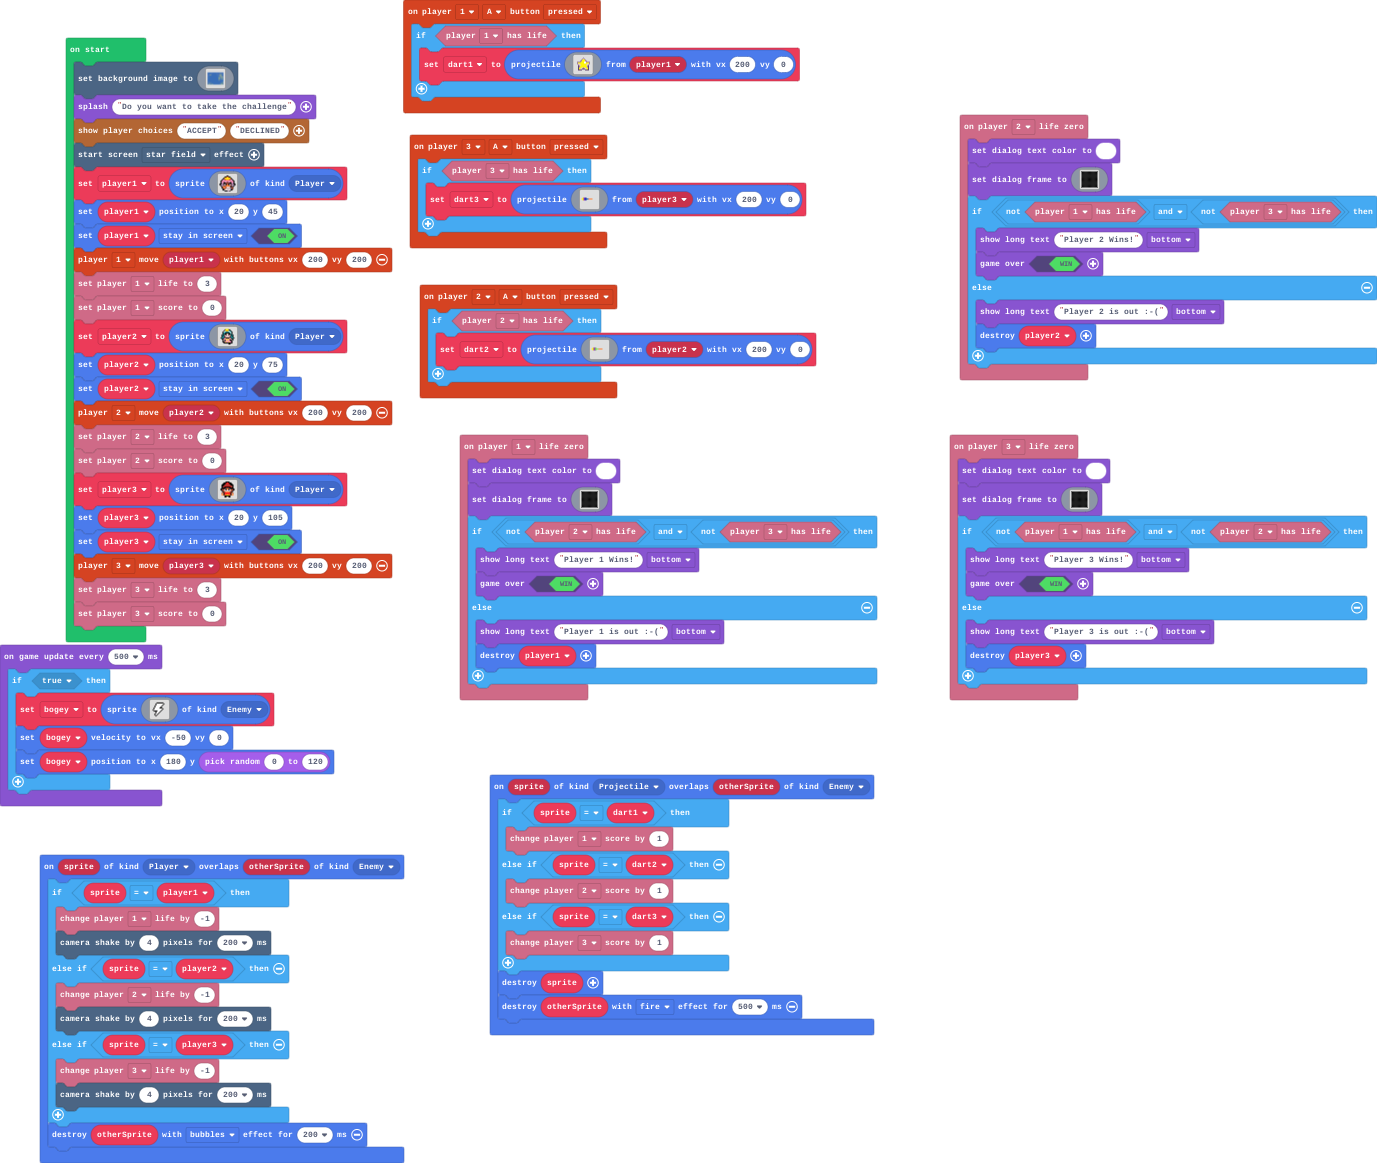
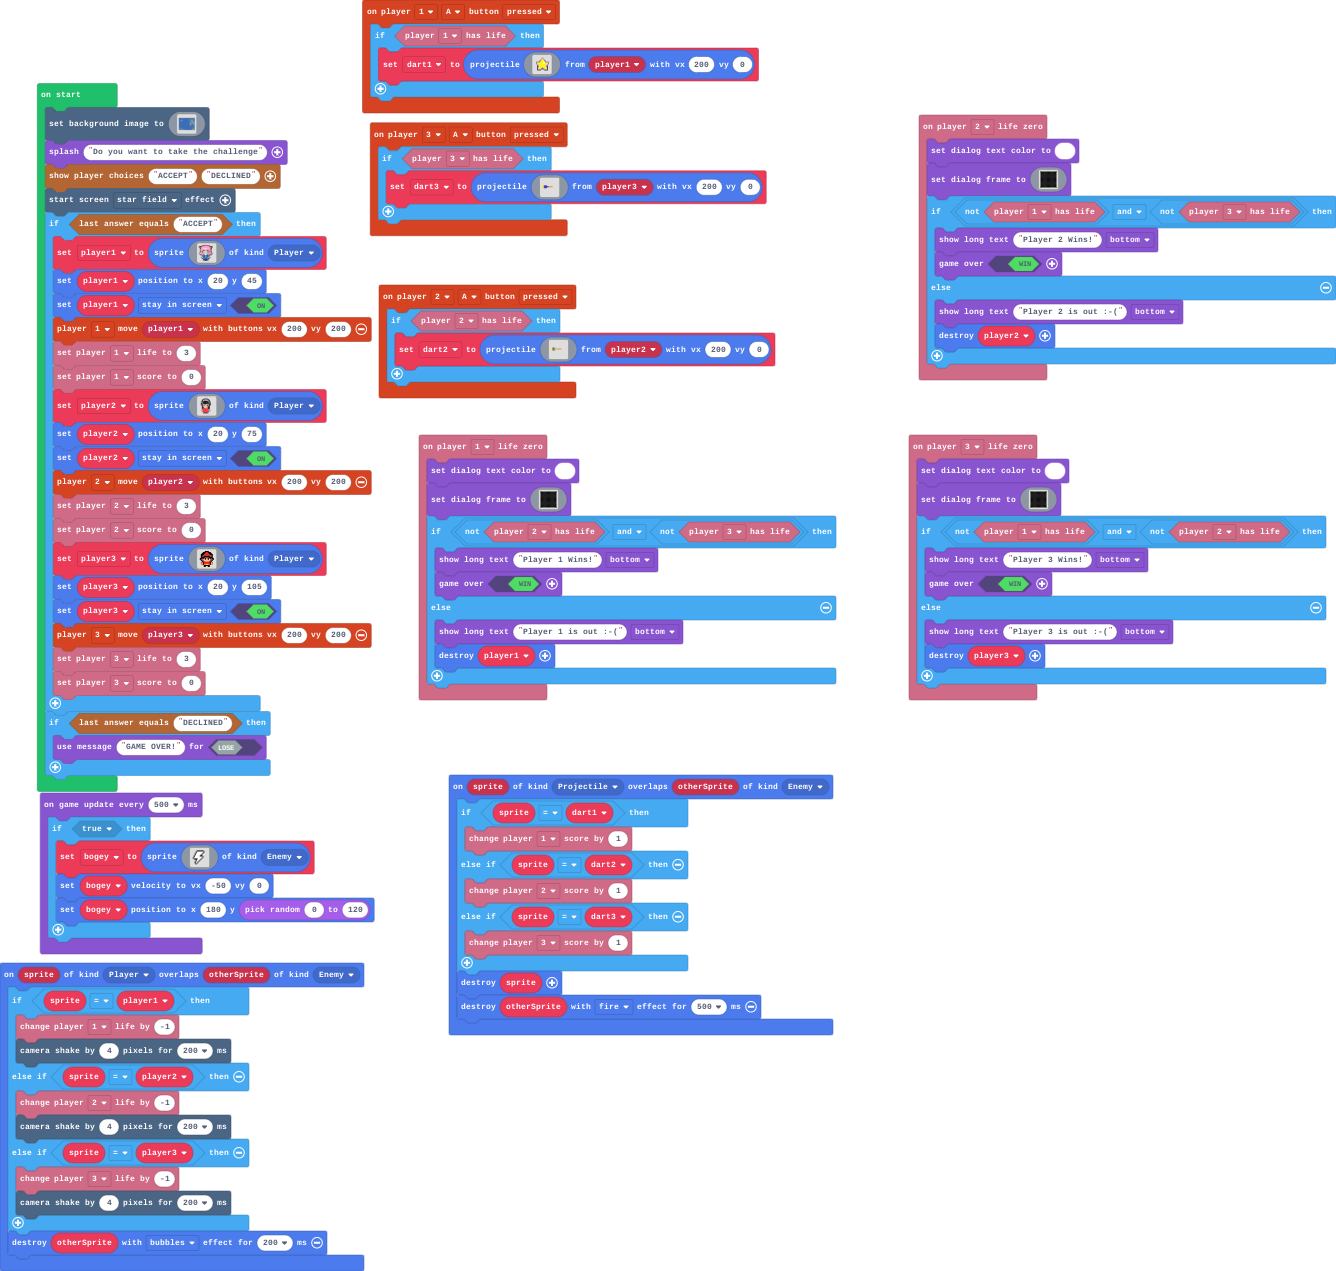
I edited two sprites

diff --git a/main.ts b/main.ts
@@ -301,75 +301,110 @@ scene.setBackgroundImage(img`
 game.splash("Do you want to take the challenge")
 story.showPlayerChoices("ACCEPT", "DECLINED")
 effects.starField.startScreenEffect()
-player1 = sprites.create(img`
-    . . . . . . . f f . . . . . . . 
-    . . . . . f f 4 4 f f . . . . . 
-    . . . . f 5 4 5 5 4 5 f . . . . 
-    . . . f e 4 5 5 5 5 4 e f . . . 
-    . . f b 3 e 4 4 4 4 e 3 b f . . 
-    . f e 3 3 3 3 3 3 3 3 3 3 e f . 
-    . f 3 3 e b 3 e e 3 b e 3 3 f . 
-    . f b 3 f f e e e e f f 3 b f . 
-    f f b b f b f e e f b f b b f f 
-    f b b b e 1 f 4 4 f 1 e b b b f 
-    . f b b e e 4 4 4 4 4 f b b f . 
-    . . f 4 4 4 e d d d b f e f . . 
-    . . f e 4 4 e d d d d c 4 e . . 
-    . . . f e e d d b d b b f e . . 
-    . . . f f 1 d 1 d 1 1 f f . . . 
-    . . . . . f f f b b f . . . . . 
-    `, SpriteKind.Player)
-player1.setPosition(20, 45)
-player1.setFlag(SpriteFlag.StayInScreen, true)
-controller.player1.moveSprite(player1, 200, 200)
-info.player1.setLife(3)
-info.player1.setScore(0)
-player2 = sprites.create(img`
-    . . . . . . 5 . 5 . . . . . . . 
-    . . . . . f 5 5 5 f f . . . . . 
-    . . . . f 1 5 2 5 1 6 f . . . . 
-    . . . f 1 6 6 6 6 6 1 6 f . . . 
-    . . . f 6 6 f f f f 6 1 f . . . 
-    . . . f 6 f f d d f f 6 f . . . 
-    . . f 6 f d f d d f d f 6 f . . 
-    . . f 6 f d 3 d d 3 d f 6 f . . 
-    . . f 6 6 f d d d d f 6 6 f . . 
-    . f 6 6 f 3 f f f f 3 f 6 6 f . 
-    . . f f 3 3 5 3 3 5 3 d f f . . 
-    . . . f d f 3 5 5 3 f f d f . . 
-    . . . f d f 3 3 3 3 3 f f . . . 
-    . . . f f 3 5 3 3 5 3 3 f . . . 
-    . . . . f f f f f f f f f . . . 
-    . . . . . . . . . f f . . . . . 
-    `, SpriteKind.Player)
-player2.setPosition(20, 75)
-player2.setFlag(SpriteFlag.StayInScreen, true)
-controller.player2.moveSprite(player2, 200, 200)
-info.player2.setLife(3)
-info.player2.setScore(0)
-player3 = sprites.create(img`
-    . . . . . . f f f f . . . . . . 
-    . . . . f f f 2 2 f f f . . . . 
-    . . . f f f 2 2 2 2 f f f . . . 
-    . . f f f e e e e e e f f f . . 
-    . . f f e 2 2 2 2 2 2 e e f . . 
-    . . f e 2 f f f f f f 2 e f . . 
-    . . f f f f e e e e f f f f . . 
-    . f f e f b f 4 4 f b f e f f . 
-    . f e e 4 1 f d d f 1 4 e e f . 
-    . . f e e d d d d d d e e f . . 
-    . . . f e e 4 4 4 4 e e f . . . 
-    . . e 4 f 2 2 2 2 2 2 f 4 e . . 
-    . . 4 d f 2 2 2 2 2 2 f d 4 . . 
-    . . 4 4 f 4 4 5 5 4 4 f 4 4 . . 
-    . . . . . f f f f f f . . . . . 
-    . . . . . f f . . f f . . . . . 
-    `, SpriteKind.Player)
-player3.setPosition(20, 105)
-player3.setFlag(SpriteFlag.StayInScreen, true)
-controller.player3.moveSprite(player3, 200, 200)
-info.player3.setLife(3)
-info.player3.setScore(0)
+if (story.checkLastAnswer("ACCEPT")) {
+    player1 = sprites.create(img`
+        ......fffffffffffff..........
+        .....f3333333333333f.........
+        ffffff3333333333333ffffff....
+        feee53333333333333335eeef....
+        feeee333333333333333eeeef....
+        fee5313333333333333135eef....
+        .fee33133131131333133eef.....
+        .fe5333311311313133335ef.....
+        ..f3333333333333333333f......
+        ..f3333333333333333333f......
+        ..f33333f3333333f33333f......
+        ..f3333fff3d3d3fff3333f......
+        .ff333f161ddddd161f3333f.....
+        .f333ff166ddddd661ff333f.....
+        .f3333f167ddddd761f3333f.....
+        f333333d77ddddd77d333333f....
+        f333333eddddddddde333333f....
+        f33333338ddddddd83333333f....
+        .f3f33333811111833333f3f.....
+        ..f.ff3388815188833ff.f......
+        ......f38888888883f..........
+        ......f88881518888f..........
+        .....f1888888888881f.........
+        ....f1d18881518881d1f........
+        ....f118888888888811f........
+        .....ff81188888118ff.........
+        ......f88888888888f..........
+        .......f888888888f...........
+        ........fffffffff............
+        ........f11fff11f............
+        ........fffffffff............
+        `, SpriteKind.Player)
+    player1.setPosition(20, 45)
+    player1.setFlag(SpriteFlag.StayInScreen, true)
+    controller.player1.moveSprite(player1, 200, 200)
+    info.player1.setLife(3)
+    info.player1.setScore(0)
+    player2 = sprites.create(img`
+        .............................
+        .........fffffff.............
+        .......fffffffffff...........
+        ......fff1111111fff..........
+        .....fff111111111fff.........
+        .....ff11fffffff11ff.........
+        ....fff1fffffffff1fff........
+        ....ff1fffffffffff1ff........
+        ....ff1fffffffffff1ff........
+        ....f1fffffffffffff1f........
+        ...ff1ffcfffffffcff1ff.......
+        ...ffffcccfffdfcccffff.......
+        ...fffc121dffdd121cfff.......
+        ...f5cc122ddddd221cc5f.......
+        ....ffc12fdddddf21cff........
+        .....ffdffdddddffdff.........
+        .....ff33ddddddd33ff.........
+        .....fffdddddddddfff.........
+        .....ffffdddddddffff.........
+        .....fffdd2ddd2ddfff.........
+        .....fffd2222222dfff.........
+        ......cf222222222fc..........
+        .....c2222222222222c.........
+        ....cdd22222222222ddc........
+        ....cdd22222222222ddc........
+        .....cc22222222222cc.........
+        ......c22222222222c..........
+        .......c222222222c...........
+        ........cfffffffc............
+        ........cdddcdddc............
+        ........ccccccccc............
+        `, SpriteKind.Player)
+    player2.setPosition(20, 75)
+    player2.setFlag(SpriteFlag.StayInScreen, true)
+    controller.player2.moveSprite(player2, 200, 200)
+    info.player2.setLife(3)
+    info.player2.setScore(0)
+    player3 = sprites.create(img`
+        . . . . . . f f f f . . . . . . 
+        . . . . f f f 2 2 f f f . . . . 
+        . . . f f f 2 2 2 2 f f f . . . 
+        . . f f f e e e e e e f f f . . 
+        . . f f e 2 2 2 2 2 2 e e f . . 
+        . . f e 2 f f f f f f 2 e f . . 
+        . . f f f f e e e e f f f f . . 
+        . f f e f b f 4 4 f b f e f f . 
+        . f e e 4 1 f d d f 1 4 e e f . 
+        . . f e e d d d d d d e e f . . 
+        . . . f e e 4 4 4 4 e e f . . . 
+        . . e 4 f 2 2 2 2 2 2 f 4 e . . 
+        . . 4 d f 2 2 2 2 2 2 f d 4 . . 
+        . . 4 4 f 4 4 5 5 4 4 f 4 4 . . 
+        . . . . . f f f f f f . . . . . 
+        . . . . . f f . . f f . . . . . 
+        `, SpriteKind.Player)
+    player3.setPosition(20, 105)
+    player3.setFlag(SpriteFlag.StayInScreen, true)
+    controller.player3.moveSprite(player3, 200, 200)
+    info.player3.setLife(3)
+    info.player3.setScore(0)
+}
+if (story.checkLastAnswer("DECLINED")) {
+    game.setGameOverMessage(false, "GAME OVER!")
+}
 game.onUpdateInterval(500, function () {
     if (true) {
         bogey = sprites.create(img`
